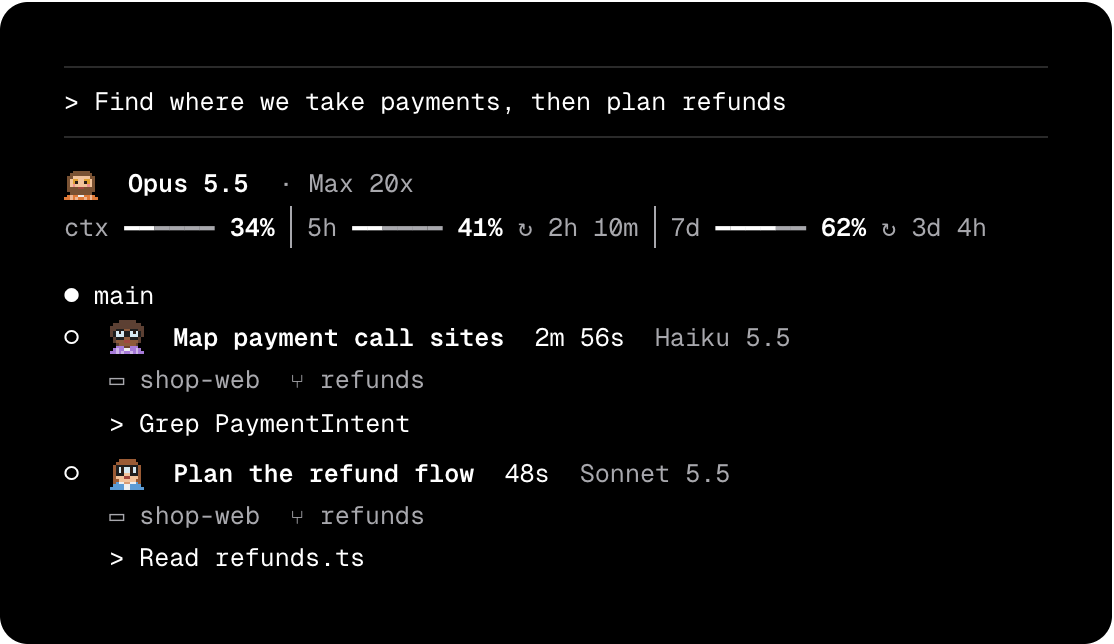
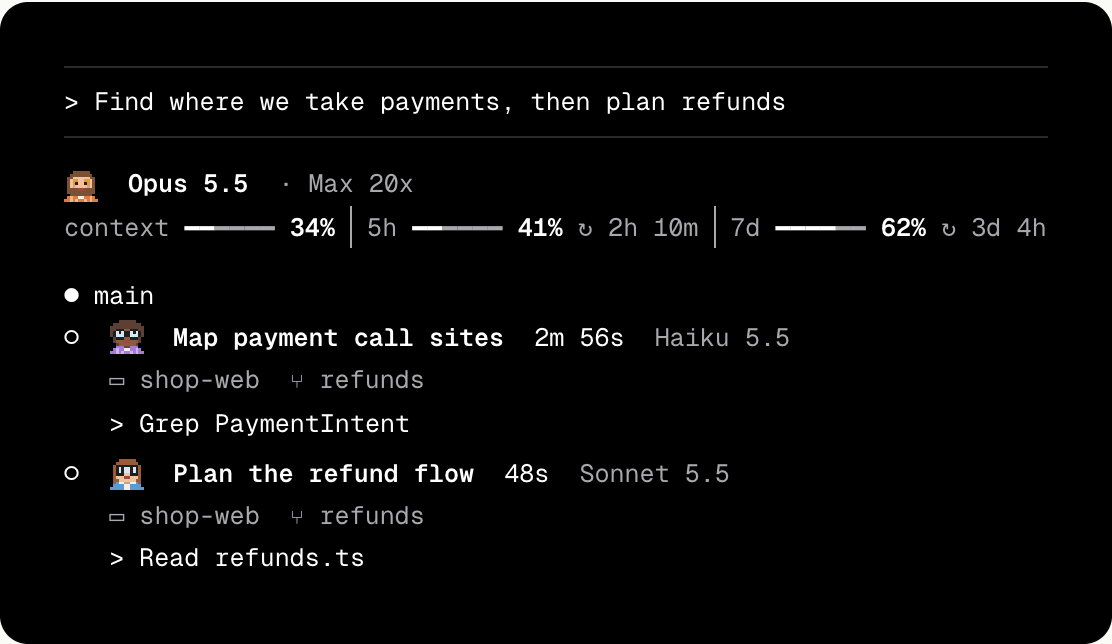
docs: pictures and website show the History button and the context meter

diff --git a/site/components/sections/terminal.tsx b/site/components/sections/terminal.tsx
@@ -42,7 +42,7 @@ export function Terminal() {
             <p className="t-prompt">&gt; Find where we take payments, then plan refunds</p>
             <p><Mascot who="guru" pose="still" /><b>Opus 5.5</b><span className="t-dim">· Max 20x</span></p>
             <p className="t-meters">
-              <span><span className="t-dim">ctx</span> <Bar percent={34} /> <b>34%</b></span>
+              <span><span className="t-dim">context</span> <Bar percent={34} /> <b>34%</b></span>
               <span><span className="t-dim">5h</span> <Bar percent={41} /> <b>41%</b> <span className="t-dim">↻ 2h 10m</span></span>
               <span><span className="t-dim">7d</span> <Bar percent={62} /> <b>62%</b> <span className="t-dim">↻ 3d 4h</span></span>
             </p>
